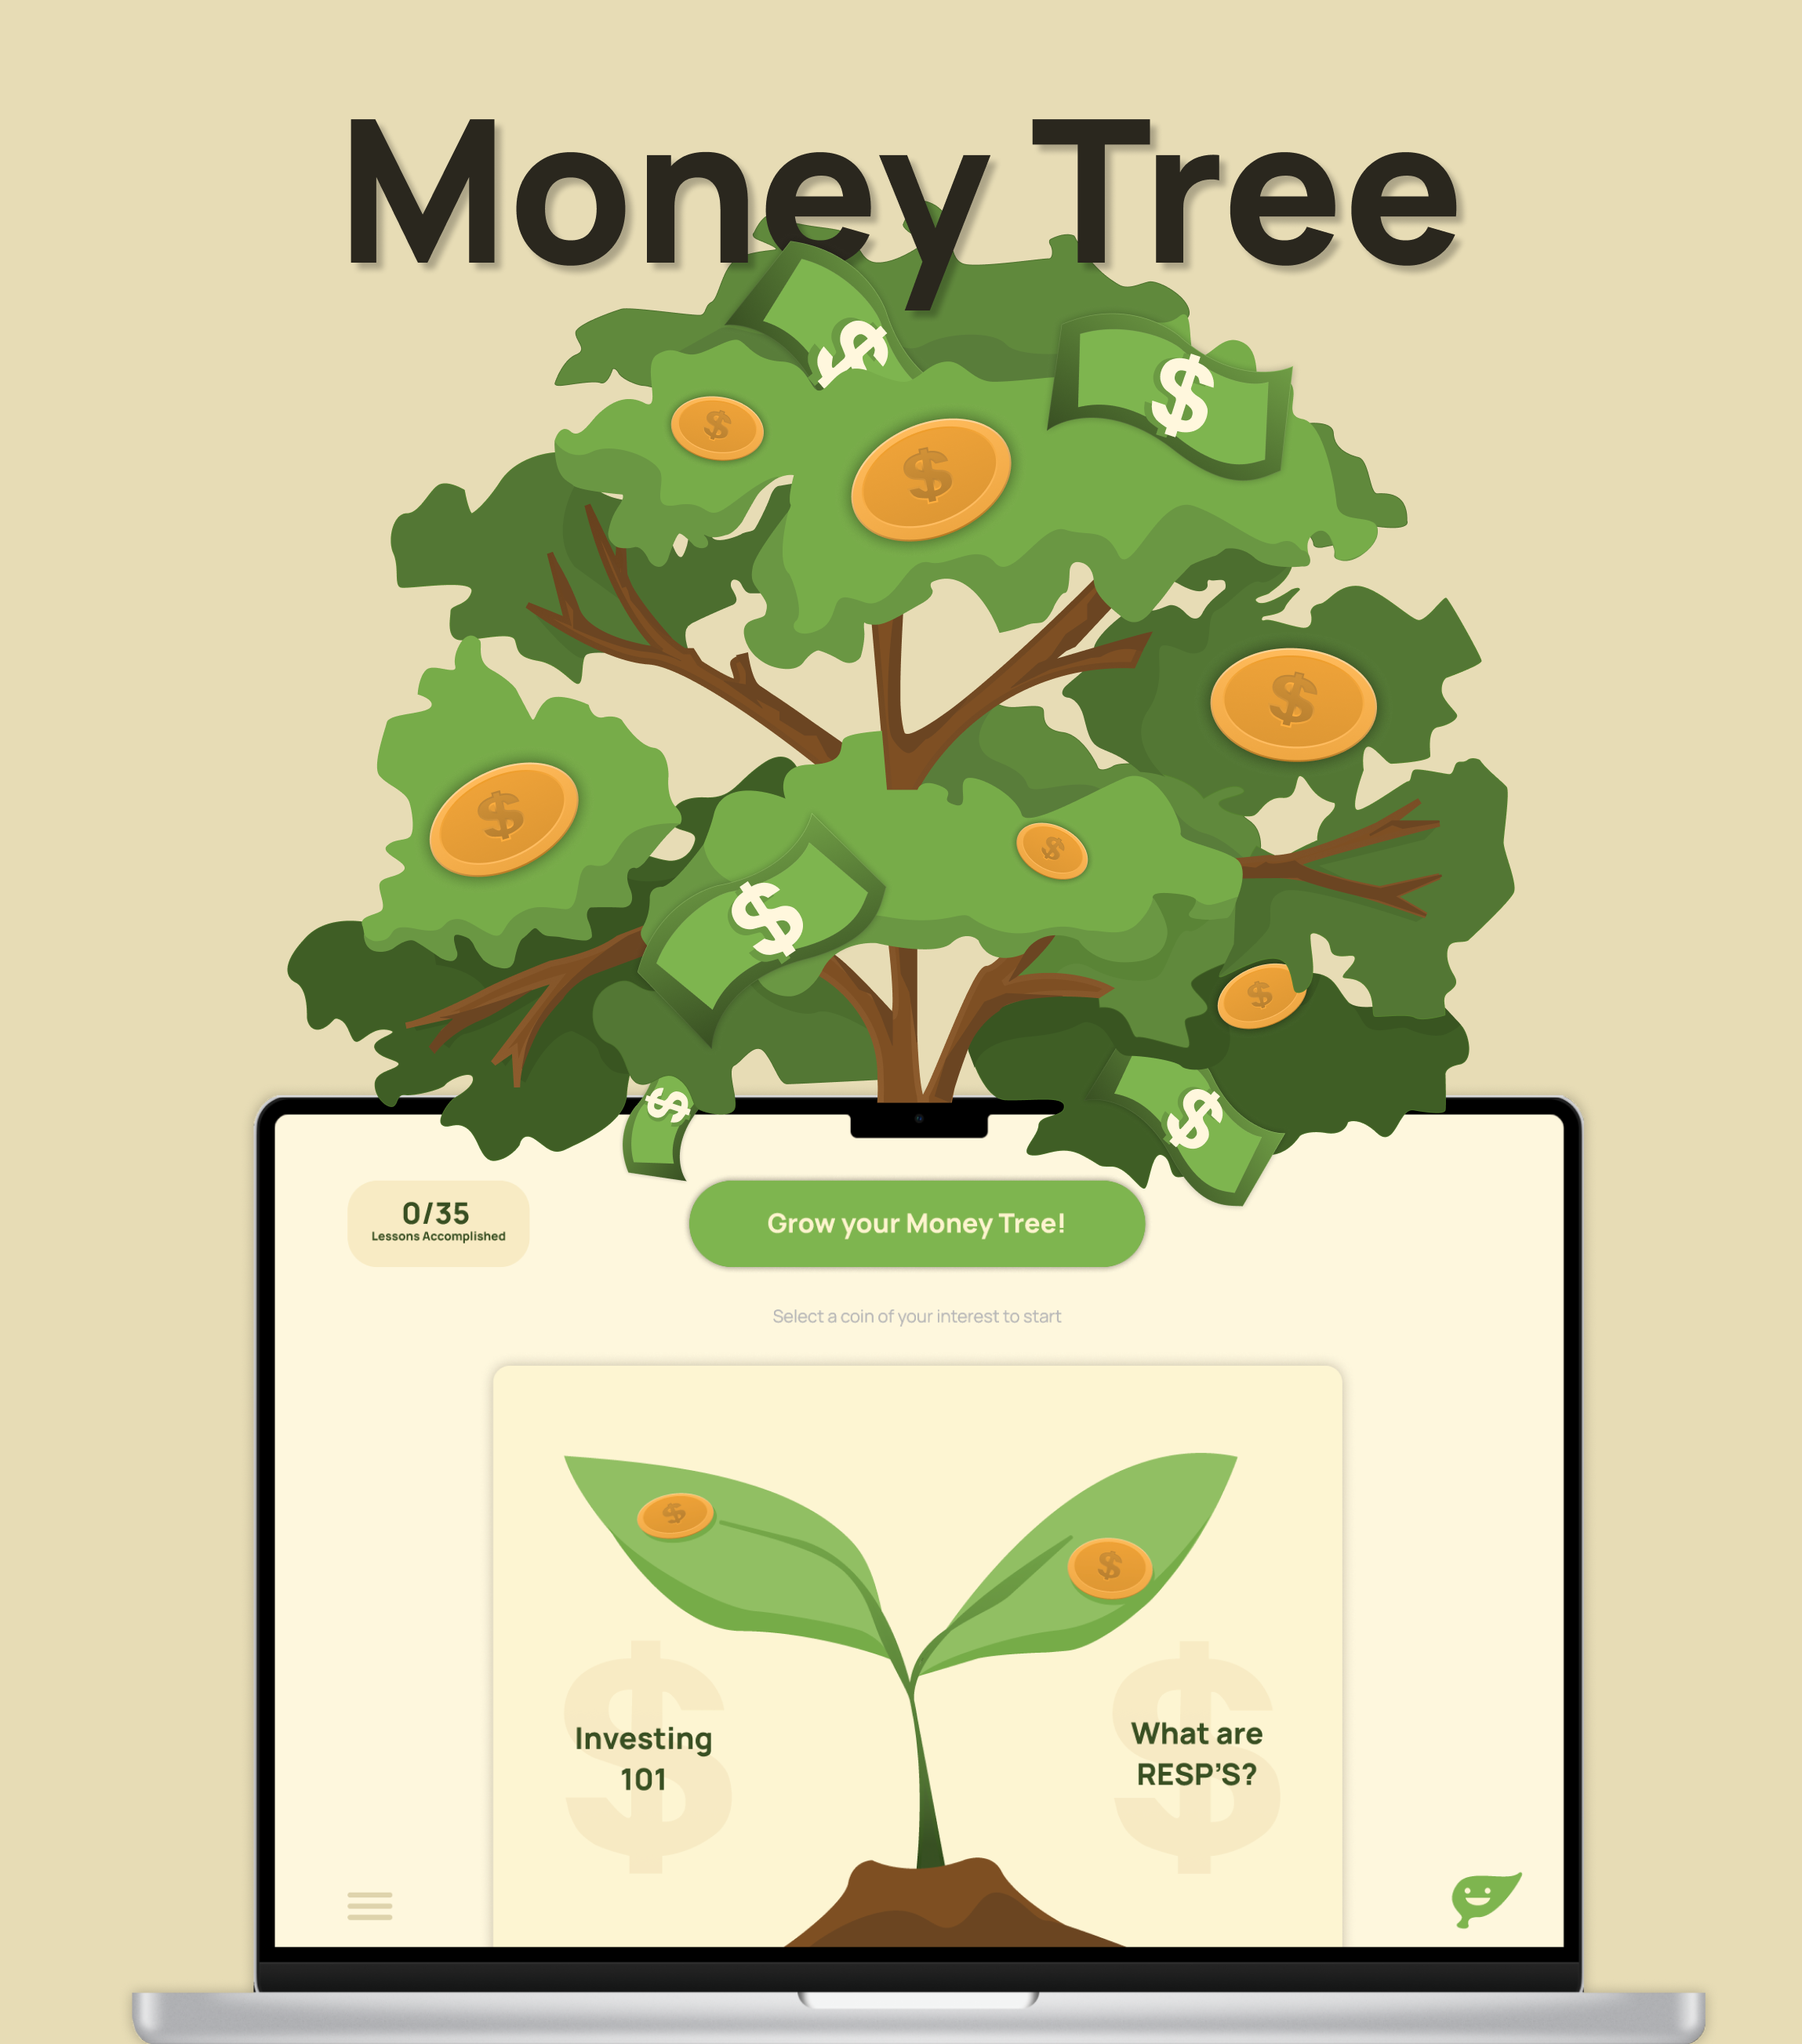
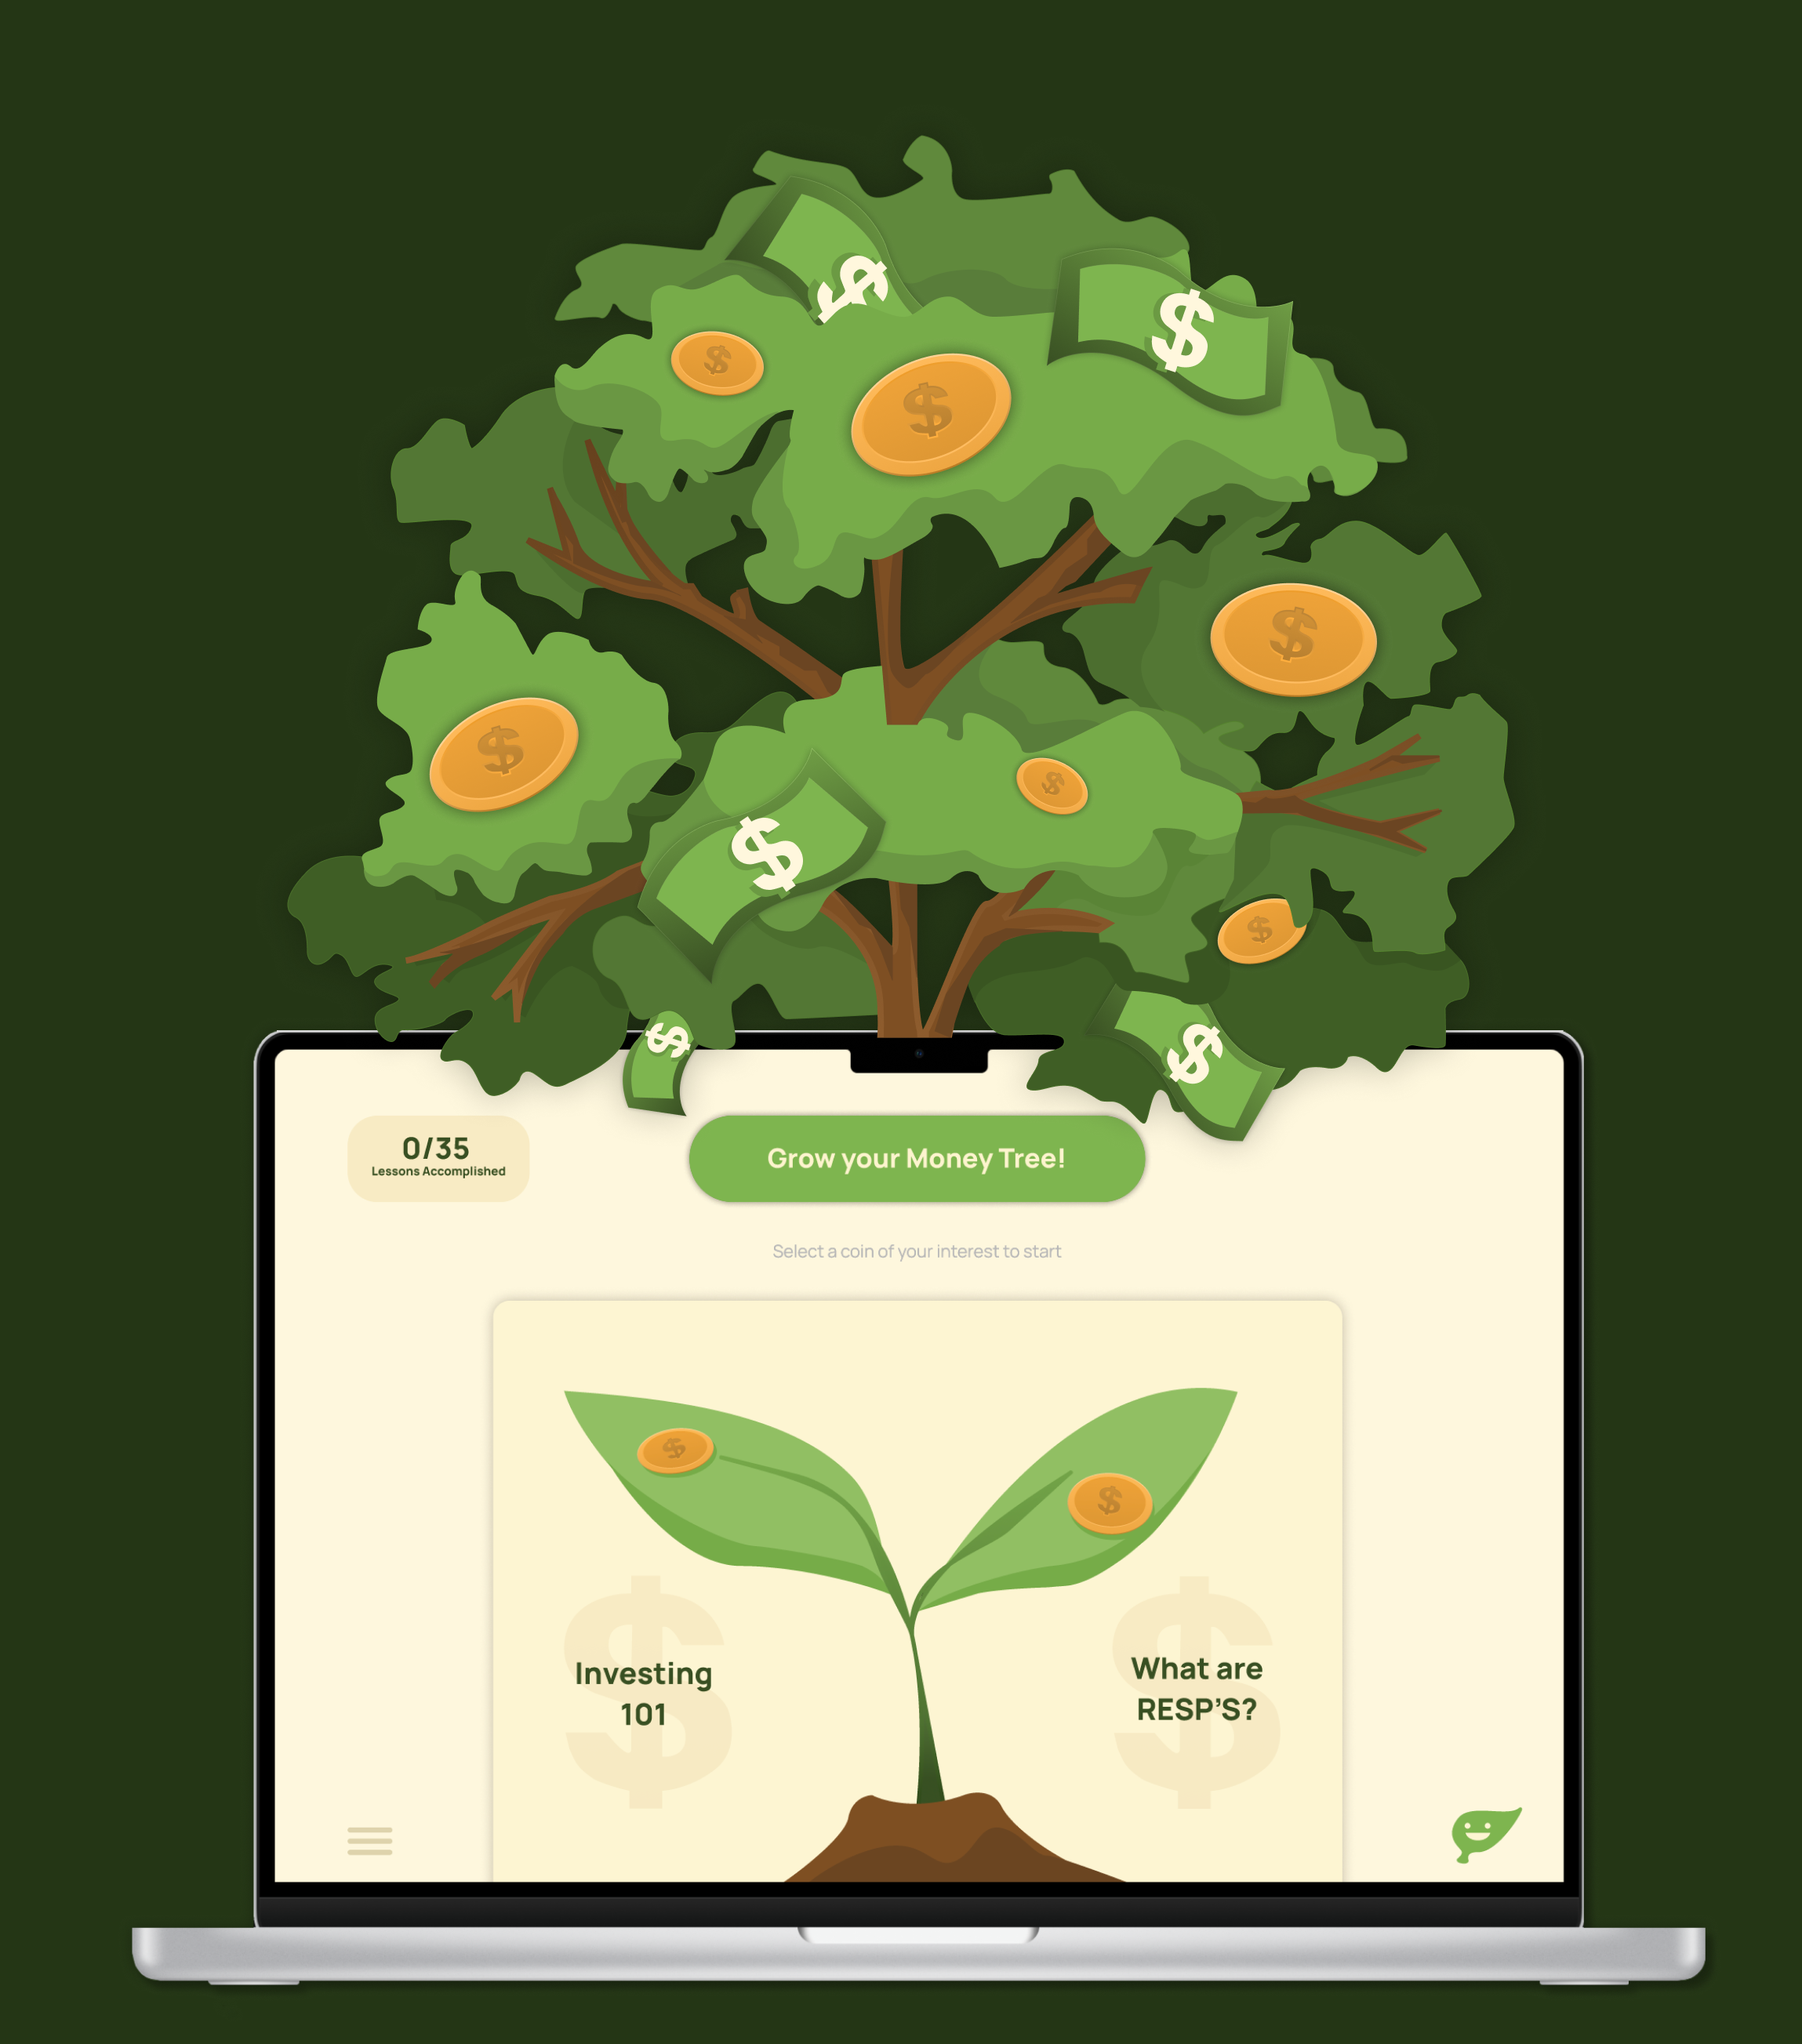
Remove Film Projects card, center remaining cards, add money.png to MT problem section, update mtcover.png

diff --git a/index.html b/index.html
@@ -513,12 +513,14 @@
   }
 
   .projects-grid {
-    display: grid;
-    grid-template-columns: repeat(3, 1fr);
+    display: flex;
+    flex-wrap: wrap;
+    justify-content: center;
     gap: 12px;
   }
 
   .project-card {
+    flex: 0 0 calc(33.333% - 8px);
     background: white;
     border: 2px solid #1a1a1a;
     border-radius: 18px; overflow: hidden;
@@ -895,14 +897,14 @@
             <div class="sc-carousel-item"><img src="images/5gum.png" alt="5Gum Rebrand" /></div>
             <div class="sc-carousel-item"><img src="images/loadup.png" alt="LoadUP" /></div>
             <div class="sc-carousel-item"><img src="images/sdcover.png" alt="Service Design Uno" /></div>
-            <div class="sc-carousel-item"><img src="images/mtcover.png" alt="Magazine" /></div>
+            <div class="sc-carousel-item"><img src="images/mtcover.png?v=1778693500" alt="Magazine" /></div>
             <div class="sc-carousel-item"><img src="images/designcover.png" alt="Designer Cover" /></div>
             <div class="sc-carousel-item"><img src="images/mealmap.png" alt="Meal Map" /></div>
             <!-- duplicated for seamless loop -->
             <div class="sc-carousel-item"><img src="images/5gum.png" alt="5Gum Rebrand" /></div>
             <div class="sc-carousel-item"><img src="images/loadup.png" alt="LoadUP" /></div>
             <div class="sc-carousel-item"><img src="images/sdcover.png" alt="Service Design Uno" /></div>
-            <div class="sc-carousel-item"><img src="images/mtcover.png" alt="Magazine" /></div>
+            <div class="sc-carousel-item"><img src="images/mtcover.png?v=1778693500" alt="Magazine" /></div>
             <div class="sc-carousel-item"><img src="images/designcover.png" alt="Designer Cover" /></div>
             <div class="sc-carousel-item"><img src="images/mealmap.png" alt="Meal Map" /></div>
           </div>
@@ -983,10 +985,7 @@
           <div class="project-thumb" style="background:#A2C496;"></div>
           <div class="project-body"><p class="project-tag">UX Design · Mobile App · Prototype</p><h3>Meal Map</h3><p>A prototype app helping students navigate university cafeterias safely through a standardized, reliable system for allergy communication, management, and education.</p></div>
         </a>
-        <a class="project-card" href="#">
-          <div class="project-thumb" style="background:#6B6B6B;"></div>
-          <div class="project-body"><p class="project-tag">Film · Camera Work</p><h3>Film Projects</h3><p>From place pieces to documentary — a collection of camera work projects exploring visual storytelling through the lens.</p></div>
-        </a>
+
       </div>
     </div>
   </section>
@@ -2683,10 +2682,15 @@
     </div>
 
     <!-- problem -->
-    <div class="mt-section">
-      <p class="mt-label">Overview</p>
-      <h2>The <span>Problem</span></h2>
-      <p>As a young adult who struggled to understand basic financial concepts, I found it frustrating how difficult it was to access clear, and easily digestible information without falling down endless research rabbit holes. After talking with friends my age, I realized how common this knowledge gap really is, and research shows that financial literacy among younger generations is alarmingly low, with studies showing only 9–35% of young adults who genuinely demonstrate strong financial understanding. And coming from personal experience, this lack of financial knowledge can create confidence gaps, independence challenges and digital reliance. Wanting to make financial education feel more approachable and accessible, I created Money Tree — the app that teaches financial fundamentals in an unintimidating and welcoming approach.</p>
+    <div class="mt-section" style="display:grid; grid-template-columns:1fr 1fr; gap:56px; align-items:flex-start;">
+      <div>
+        <p class="mt-label">Overview</p>
+        <h2>The <span>Problem</span></h2>
+        <p>As a young adult who struggled to understand basic financial concepts, I found it frustrating how difficult it was to access clear, and easily digestible information without falling down endless research rabbit holes. After talking with friends my age, I realized how common this knowledge gap really is, and research shows that financial literacy among younger generations is alarmingly low, with studies showing only 9–35% of young adults who genuinely demonstrate strong financial understanding. And coming from personal experience, this lack of financial knowledge can create confidence gaps, independence challenges and digital reliance. Wanting to make financial education feel more approachable and accessible, I created Money Tree — the app that teaches financial fundamentals in an unintimidating and welcoming approach.</p>
+      </div>
+      <div style="display:flex; align-items:flex-start; justify-content:center;">
+        <img src="images/money.png" alt="Money Tree illustration" style="width:62%; border-radius:20px; display:block;" />
+      </div>
     </div>
 
     <div class="mt-footer">
